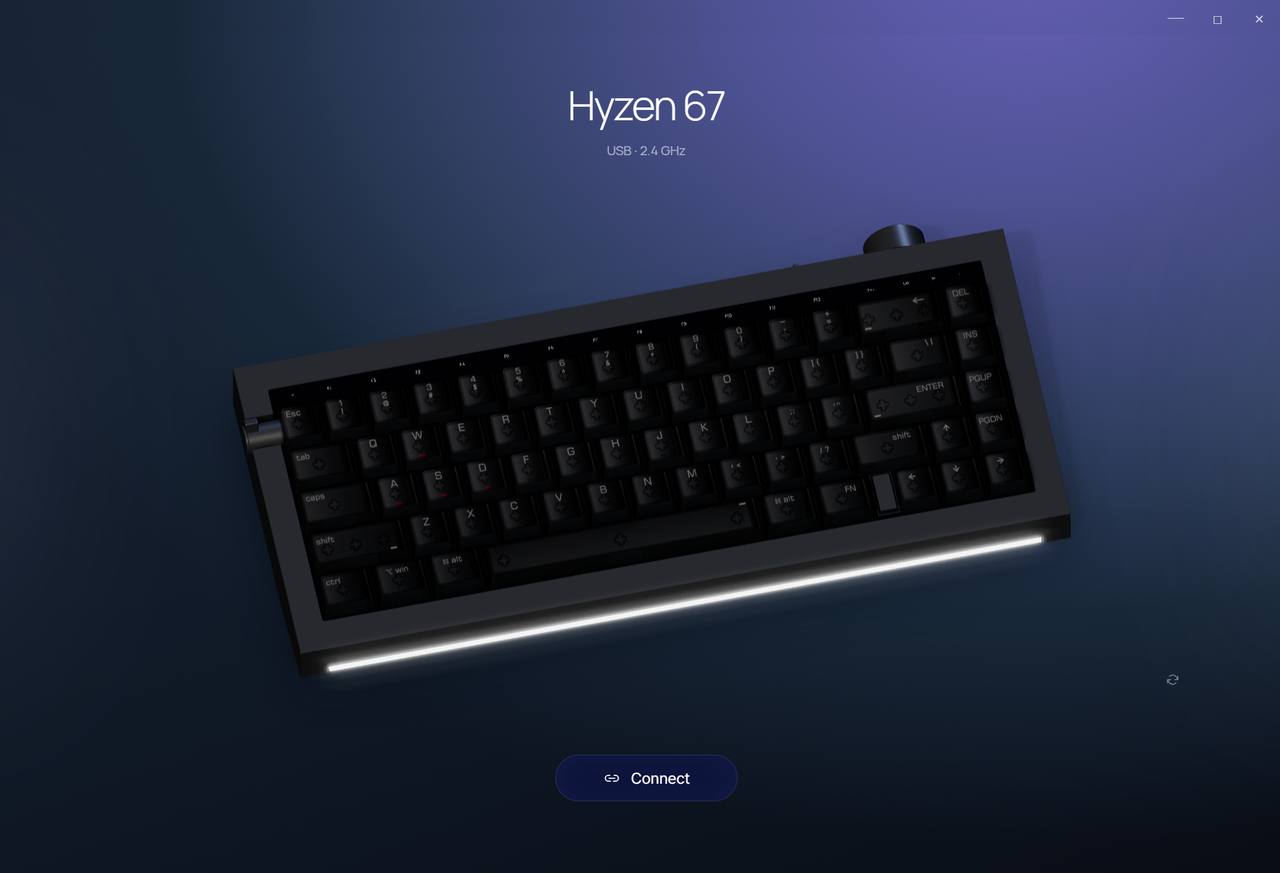
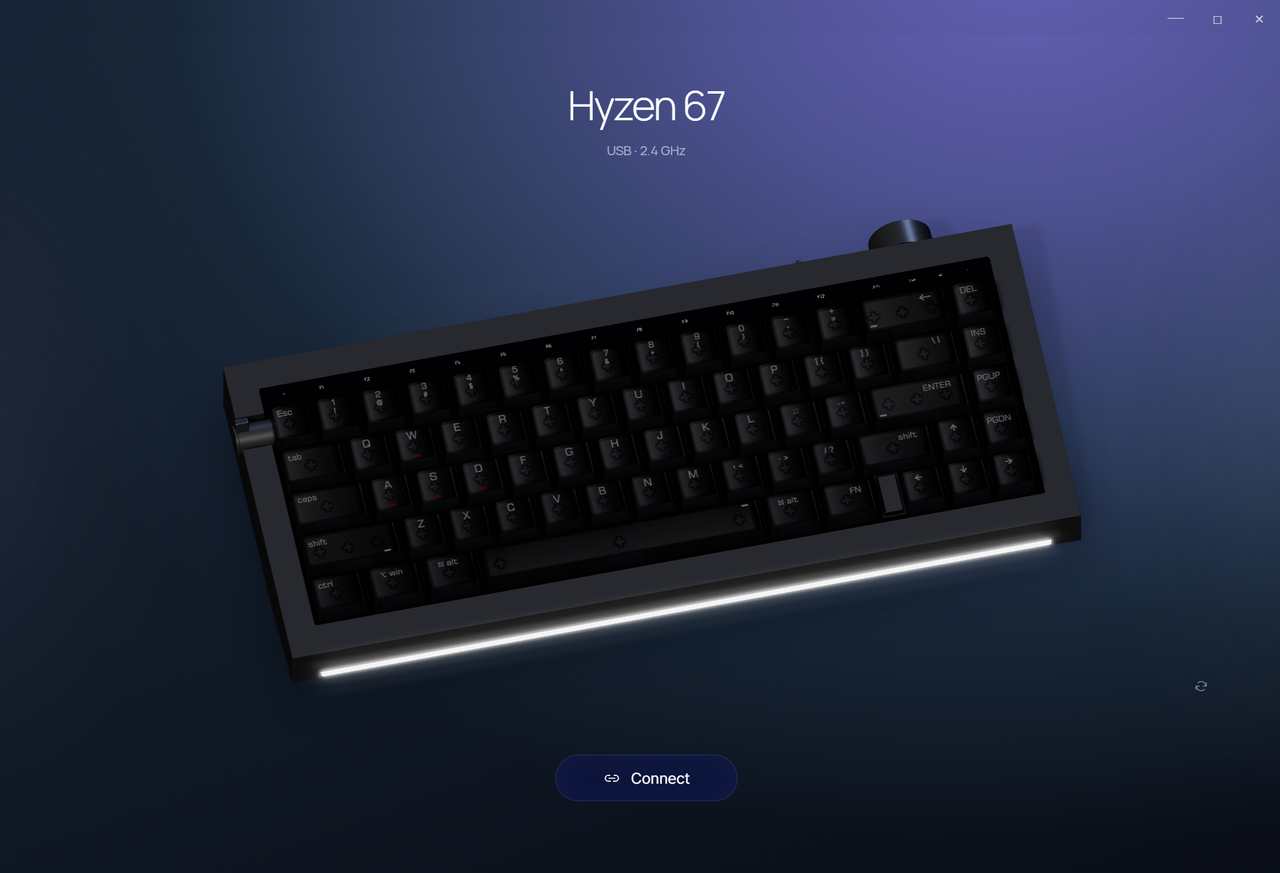
Widen magnetic return to 30 degrees and fix landing size at 160 percent

diff --git a/source/web/app.js b/source/web/app.js
@@ -67,11 +67,11 @@ async function switchLanguage(language){
  $('main').scrollTop=scroll;$('#content [data-language="'+language+'"]').focus({preventScroll:true});
 }
 function previewKeyboard(){
- return '<div class="keyboard product-visual model-host" data-model-view="landing"><img id="productPreview" src="hyzen-product.webp" alt="Lofree Hyzen 67 — 투명 키캡과 금속 하우징" width="3335" height="1400" draggable="false">'+modelReset()+'</div>';
+ return '<div class="keyboard product-visual model-host" data-model-view="landing"><img id="productPreview" src="hyzen-product.webp" alt="Lofree Hyzen 67 — 투명 키캡과 금속 하우징" width="3335" height="1400" draggable="false">'+modelReset(true)+'</div>';
 }
 function graphicScale(){return window.Hyzen3D?.scale||window.HUB_PREFERENCES?.keyboardScale||120;}
 function graphicScaleOptions(){return Array.from({length:9},(_,i)=>80+i*10).map(value=>option(value,value+'%',graphicScale())).join('');}
-function modelReset(){return '<select class="model-scale" data-model-scale aria-label="'+t('키보드 그래픽 크기')+'" title="'+t('키보드 그래픽 크기')+'">'+graphicScaleOptions()+'</select><button class="model-reset" data-model-reset aria-label="'+t('3D 보기 초기화')+'" title="'+t('드래그하여 회전 · 휠로 확대/축소 · 두 번 클릭하여 초기화')+'">'+icon('refresh')+'</button>';}
+function modelReset(fixedSize=false){return (fixedSize?'':'<select class="model-scale" data-model-scale aria-label="'+t('키보드 그래픽 크기')+'" title="'+t('키보드 그래픽 크기')+'">'+graphicScaleOptions()+'</select>')+'<button class="model-reset" data-model-reset aria-label="'+t('3D 보기 초기화')+'" title="'+t('드래그하여 회전 · 휠로 확대/축소 · 두 번 클릭하여 초기화')+'">'+icon('refresh')+'</button>';}
 async function setGraphicScale(value){
  const scale=Number(value);if(!Number.isInteger(scale)||scale<80||scale>160||scale%10)throw Error('보기 크기가 올바르지 않습니다.');
  const saved=await rpc('preferences',{keyboardScale:scale});
@@ -197,7 +197,7 @@ function settings(){
  const language=`<div class="setting-row"><div class="setting-label" id="languageLabel">언어</div><div class="language-toggle" role="group" aria-labelledby="languageLabel">${['ko','en'].map(code=>`<button data-language="${code}" aria-pressed="${L.language===code}">${code.toUpperCase()}</button>`).join('')}</div></div><div class="setting-row"><label for="keyboardScale">키보드 그래픽 크기</label><select id="keyboardScale">${graphicScaleOptions()}</select></div>`;
  return `<article class="card">${language}<div class="setting-row"><label for="axisMode">스위치 모드</label><select id="axisMode">${option(2,'MAG',f[56])}${option(1,'MEC',f[56])}</select></div>${fold('키 잠금 · 고속 응답',locks)}${actionRow('saveMode')}</article>${[['절전',sleep],['폴링레이트',rate],['프로필 · 연결',profile],[cap.firmware?'업데이트 · 초기화':'초기화',firmware]].map(([title,body])=>`<details class="card option-card"><summary>${title}</summary><div class="fold-body">${body}</div></details>`).join('')}`;
 }
-function help(){return `<article class="card help-card"><h2>Lofree HUB 1.3.2</h2><p>Lofree Hyzen 67용 Windows 제어 프로그램입니다. USB 또는 2.4GHz로 연결해 키 매핑, 입력 깊이, 조명 등을 설정합니다.</p></article>${[['연결과 프로필','USB 유선 또는 2.4GHz 수신기로 연결합니다. Bluetooth에서는 설정용 HID 인터페이스가 제공되지 않습니다. 상단에서 7개 프로필을 전환할 수 있고, 키 매핑과 조명 등은 현재 프로필에 저장합니다.'],['저장과 설정 확인','변경한 값은 자동으로 키보드에 적용합니다. 연속 조작은 짧게 묶어 전송하고, 같은 값을 다시 읽어 확인합니다. 하단에서 적용 상태를 확인하세요. 실패하면 ‘다시 적용’을 누르거나 새로고침으로 장치 값을 다시 읽을 수 있습니다.'],['키 매핑과 Fn 레이어','키를 선택한 뒤 새 동작을 지정합니다. Ctrl을 누르며 선택하면 여러 키를 편집할 수 있습니다. Fn과 고정 키는 변경할 수 없습니다. 네 가지 Fn 레이어는 프로필 전체에서 공유됩니다.'],['입력 깊이와 고급 키','MAG 모드에서는 장치의 보정 값으로 mm와 원시 값을 변환합니다. RT는 누름·해제 이동 거리를 따로 조절하고, MT·TGL·DKS·RS·SOCD·HT를 설정할 수 있습니다. 두 키 기능은 서로 다른 키를 연결해야 합니다.'],['키 테스트와 매크로','입력 기록은 이 프로그램 창이 활성 상태일 때만 메모리에 보관합니다. 창을 벗어나면 녹화를 중지합니다. Fn이나 Windows가 가로채는 단축키는 일반 입력 이벤트에 나타나지 않을 수 있습니다. 매크로는 녹화를 중지하면 자동 적용합니다. 키 매핑에서 M1~M28을 지정하세요.'],['보정 · 펌웨어 · 초기화','이 버전의 보정, 펌웨어 쓰기, 공장 초기화는 공식 드라이버로 연결합니다. 프로그램에서 공식 도구를 열면 HID 연결을 먼저 해제합니다. 보정은 유선 MAG 모드에서 진행하세요.'],['백업 범위','내보내기는 현재 프로필의 기본 레이어 매핑과 기능 설정을 포함합니다. Fn 레이어·고급 키·입력 깊이·매크로 데이터는 이 백업 형식에 포함되지 않습니다. 원본 JSON 파일을 별도로 보관하세요.']].map(([t,p])=>`<details class="card help-card"><summary>${t}</summary><p>${p}</p></details>`).join('')}<button data-action="official">Lofree 공식 Hyzen 드라이버 ↗</button>`;}
+function help(){return `<article class="card help-card"><h2>Lofree HUB 1.3.3</h2><p>Lofree Hyzen 67용 Windows 제어 프로그램입니다. USB 또는 2.4GHz로 연결해 키 매핑, 입력 깊이, 조명 등을 설정합니다.</p></article>${[['연결과 프로필','USB 유선 또는 2.4GHz 수신기로 연결합니다. Bluetooth에서는 설정용 HID 인터페이스가 제공되지 않습니다. 상단에서 7개 프로필을 전환할 수 있고, 키 매핑과 조명 등은 현재 프로필에 저장합니다.'],['저장과 설정 확인','변경한 값은 자동으로 키보드에 적용합니다. 연속 조작은 짧게 묶어 전송하고, 같은 값을 다시 읽어 확인합니다. 하단에서 적용 상태를 확인하세요. 실패하면 ‘다시 적용’을 누르거나 새로고침으로 장치 값을 다시 읽을 수 있습니다.'],['키 매핑과 Fn 레이어','키를 선택한 뒤 새 동작을 지정합니다. Ctrl을 누르며 선택하면 여러 키를 편집할 수 있습니다. Fn과 고정 키는 변경할 수 없습니다. 네 가지 Fn 레이어는 프로필 전체에서 공유됩니다.'],['입력 깊이와 고급 키','MAG 모드에서는 장치의 보정 값으로 mm와 원시 값을 변환합니다. RT는 누름·해제 이동 거리를 따로 조절하고, MT·TGL·DKS·RS·SOCD·HT를 설정할 수 있습니다. 두 키 기능은 서로 다른 키를 연결해야 합니다.'],['키 테스트와 매크로','입력 기록은 이 프로그램 창이 활성 상태일 때만 메모리에 보관합니다. 창을 벗어나면 녹화를 중지합니다. Fn이나 Windows가 가로채는 단축키는 일반 입력 이벤트에 나타나지 않을 수 있습니다. 매크로는 녹화를 중지하면 자동 적용합니다. 키 매핑에서 M1~M28을 지정하세요.'],['보정 · 펌웨어 · 초기화','이 버전의 보정, 펌웨어 쓰기, 공장 초기화는 공식 드라이버로 연결합니다. 프로그램에서 공식 도구를 열면 HID 연결을 먼저 해제합니다. 보정은 유선 MAG 모드에서 진행하세요.'],['백업 범위','내보내기는 현재 프로필의 기본 레이어 매핑과 기능 설정을 포함합니다. Fn 레이어·고급 키·입력 깊이·매크로 데이터는 이 백업 형식에 포함되지 않습니다. 원본 JSON 파일을 별도로 보관하세요.']].map(([t,p])=>`<details class="card help-card"><summary>${t}</summary><p>${p}</p></details>`).join('')}<button data-action="official">Lofree 공식 Hyzen 드라이버 ↗</button>`;}
 async function loadAdvanced(prefetched=undefined){if(state.page!=='advanced'||firstSelected()<0)return;const v=prefetched===undefined?await device.advancedConfig(firstSelected()):prefetched;if(v){state.advanced=v.kind;render();if(v.tap)$('#advancedTap').value=P.hex(v.tap);if(v.hold)$('#advancedHold').value=P.hex(v.hold);if(v.delay!==undefined)$('#advancedDelay').value=v.delay;if(v.partner!==undefined)$('#partnerKey').value=v.partner;if(v.priority!==undefined)$('#advancedPriority').value=v.priority;if(v.mm!==undefined){$('#advancedMm').value=v.mm;syncInstrument($('#advancedMm'),true);}if(v.rtEnabled!==undefined)$('#advancedRt').checked=v.rtEnabled;if(v.rows)for(let n=0;n<4;n++){$('#dksKey'+n).value=P.hex(v.rows[n].code);$('#dksPoint'+n).value=v.points[n].toFixed(2);}}}
 async function navigate(page){
  if(!device.connected||!availablePage(page))return;
@@ -350,6 +350,7 @@ window.runVerification=async()=>{
  checks.push({name:'official-product-image',ok:product?.complete&&product.naturalWidth===3335&&physical.length===67});
  await modelReady();const initialModel=Hyzen3D.inspect();
  checks.push({name:'blender-model-loads-before-manual-connection',ok:initialModel.state==='ready'&&initialModel.keys===67&&initialModel.loads===1&&landingOnly()&&!device.connected&&pending.size===0,model:initialModel});
+ await (await import('./model-verification.js')).verifyLandingScale({checks,modelReady});
  await screenshot('landing');
  const realRpc=device.rpc;let attempts=0;
  device.rpc=async(action,args)=>{if(action==='connect'){attempts++;throw Error('검증용 연결 실패');}return realRpc(action,args);};
@@ -401,8 +402,8 @@ window.runVerification=async()=>{
     checks.push({name:'3d-ray-selects-real-key-without-device-write',ok:document.elementFromPoint(p.x,p.y)===canvas&&state.selected.has(keyIndex)&&selected.getAttribute('aria-pressed')==='true'&&Hyzen3D.keyState(key.dataset.modelKey).light>.4&&serial===serialBefore});
     const r=canvas.getBoundingClientRect(),before=Hyzen3D.inspect();
     canvas.dispatchEvent(new PointerEvent('pointerdown',{pointerId:2,button:0,clientX:r.left+100,clientY:r.top+100,bubbles:true}));
-    canvas.dispatchEvent(new PointerEvent('pointermove',{pointerId:2,clientX:r.left+180,clientY:r.top+75,bubbles:true}));
-    canvas.dispatchEvent(new PointerEvent('pointerup',{pointerId:2,clientX:r.left+180,clientY:r.top+75,bubbles:true}));await modelReady();
+    canvas.dispatchEvent(new PointerEvent('pointermove',{pointerId:2,clientX:r.left+240,clientY:r.top+75,bubbles:true}));
+    canvas.dispatchEvent(new PointerEvent('pointerup',{pointerId:2,clientX:r.left+240,clientY:r.top+75,bubbles:true}));await modelReady();
     const rotated=Hyzen3D.inspect();await screenshot('model-orbit');$('[data-model-reset]').click();await modelReady();const restored=Hyzen3D.inspect();
     checks.push({name:'3d-drag-follows-hand-and-reset-restores-view-without-selecting',ok:rotated.pose.yaw<before.pose.yaw-.3&&Math.abs(restored.pose.yaw)<.001&&state.selected.size===1&&state.selected.has(keyIndex)});
     await (await import('./model-verification.js')).verifyNavigation({checks,modelReady,wait});

diff --git a/source/web/model-verification.js b/source/web/model-verification.js
@@ -1,4 +1,16 @@
 // Native read-only checks. Fixtures and control jobs never reach physical HID.
+export async function verifyLandingScale({checks,modelReady}){
+ const host=document.querySelector('#connectVisual .model-host'),saved=Hyzen3D.scale;
+ const measure=()=>{const r=host.getBoundingClientRect();return{width:r.width,height:r.height,scale:Number(getComputedStyle(host).getPropertyValue('--keyboard-graphic-scale'))};};
+ try{
+  Hyzen3D.setScale(80);await modelReady();const smaller=measure();
+  Hyzen3D.setScale(160);await modelReady();const larger=measure();
+  checks.push({name:'landing-size-is-fixed-at-160-independent-of-settings-size',ok:smaller.scale===1.6&&larger.scale===1.6&&Math.abs(larger.width-smaller.width)<.5&&Math.abs(larger.height-smaller.height)<.5&&!host.querySelector('[data-model-scale]'),sizes:{smaller,larger}});
+  const model=host.getBoundingClientRect(),heading=document.querySelector('.connect-heading').getBoundingClientRect(),controls=document.querySelector('.connect-controls').getBoundingClientRect();
+  checks.push({name:'landing-model-fits-between-heading-and-connect-controls',ok:model.width>0&&model.height>0&&model.top>=heading.bottom&&model.bottom<=controls.top+.5,bounds:{modelTop:model.top,modelBottom:model.bottom,headingBottom:heading.bottom,controlsTop:controls.top}});
+ }finally{Hyzen3D.setScale(saved);await modelReady();}
+}
+
 export async function verifyNavigation({checks,modelReady,wait}){
  const canvas=document.querySelector('#content .keyboard-canvas'),main=document.querySelector('main');
  const originalScroll=main.scrollTop;
@@ -7,10 +19,10 @@ export async function verifyNavigation({checks,modelReady,wait}){
  checks.push({name:'3d-wheel-zooms-smoothly-and-consumes-page-scroll',ok:event.defaultPrevented&&pending.goal.zoom>pending.pose.zoom&&enlarged.pose.zoom>1.1&&main.scrollTop===originalScroll});
  const r=canvas.getBoundingClientRect(),x=r.left+r.width/2,y=r.top+r.height/2;
  canvas.dispatchEvent(new PointerEvent('pointerdown',{pointerId:17,button:0,clientX:x,clientY:y,bubbles:true}));
- canvas.dispatchEvent(new PointerEvent('pointermove',{pointerId:17,clientX:x-20,clientY:y+8,bubbles:true}));await wait(120);
- const displaced=Hyzen3D.inspect();canvas.dispatchEvent(new PointerEvent('pointerup',{pointerId:17,clientX:x-20,clientY:y+8,bubbles:true}));
+ canvas.dispatchEvent(new PointerEvent('pointermove',{pointerId:17,clientX:x-80,clientY:y+8,bubbles:true}));await wait(120);
+ const displaced=Hyzen3D.inspect();canvas.dispatchEvent(new PointerEvent('pointerup',{pointerId:17,clientX:x-80,clientY:y+8,bubbles:true}));
  const snapping=Hyzen3D.inspect();await wait(60);const during=Hyzen3D.inspect();await modelReady();const returned=Hyzen3D.inspect();
- checks.push({name:'3d-small-drag-follows-hand-and-magnetically-returns-without-losing-zoom',ok:displaced.goal.yaw>0&&displaced.pose.yaw>0&&snapping.magnetic&&during.pose.yaw>0&&during.pose.yaw<displaced.pose.yaw&&Math.abs(returned.pose.yaw)<.0001&&Math.abs(returned.pose.elevation-1.05)<.0001&&Math.abs(returned.pose.zoom-enlarged.pose.zoom)<.001});
+ checks.push({name:'3d-drag-between-ten-and-thirty-degrees-returns-without-losing-zoom',ok:displaced.goal.yaw>10*Math.PI/180&&displaced.goal.yaw<30*Math.PI/180&&displaced.pose.yaw>0&&snapping.magnetic&&during.pose.yaw>0&&during.pose.yaw<displaced.pose.yaw&&Math.abs(returned.pose.yaw)<.0001&&Math.abs(returned.pose.elevation-1.05)<.0001&&Math.abs(returned.pose.zoom-enlarged.pose.zoom)<.001});
  canvas.dispatchEvent(new WheelEvent('wheel',{deltaY:100,bubbles:true,cancelable:true}));await modelReady();
  checks.push({name:'3d-wheel-zooms-out-and-reset-restores-fit',ok:Math.abs(Hyzen3D.inspect().pose.zoom-1)<.001});
  Hyzen3D.reset();await modelReady();

diff --git a/source/web/keyboard3d.css b/source/web/keyboard3d.css
@@ -17,8 +17,8 @@
 .model-reset:hover{background:#d1d9ff0b;color:#eff2ff;border-color:transparent}
 .model-host.model-orbiting,.model-orbiting>.keyboard-canvas{cursor:grabbing}
 .connect-stage .keyboard.model-host{--model-base-width:930px;transform:none!important;filter:drop-shadow(0 25px 25px #02071344);aspect-ratio:2.1;max-height:100%}
-.connect-stage{align-self:stretch;min-height:0}
-#connectVisual{width:min(calc(990px*var(--keyboard-graphic-scale)),89vw);height:100%;max-width:100%;display:grid;align-items:center}
+.connect-stage{align-self:stretch;min-height:0;grid-template-rows:minmax(0,1fr)}
+#connectVisual{--keyboard-graphic-scale:1.6;width:min(calc(990px*var(--keyboard-graphic-scale)),89vw);height:100%;min-height:0;max-width:100%;display:grid;grid-template-rows:minmax(0,1fr);align-items:center}
 .connect-stage .model-host img{position:absolute;inset:0;width:100%;height:100%;object-fit:contain}
 body[data-page=depth] .keyboard.model-host{--model-base-width:660px}
 body[data-page=light] .keyboard.model-host{--model-base-width:720px;aspect-ratio:2.65}

diff --git a/source/web/keyboard-motion.js b/source/web/keyboard-motion.js
@@ -1,7 +1,7 @@
 (function(root){
 'use strict';
 const clamp=(value,min,max)=>Math.max(min,Math.min(max,value));
-const magnetAngle=10*Math.PI/180;
+const magnetAngle=30*Math.PI/180;
 function home(view){return view==='landing'?{yaw:-.22,elevation:.95,zoom:1}:{yaw:0,elevation:1.05,zoom:1};}
 function drag(start,dx,dy){return{yaw:clamp(start.yaw-dx*.005,-.8,.8),elevation:clamp(start.elevation+dy*.005,.62,1.45)};}
 function nearHome(pose,view){const base=home(view);return Math.abs(pose.yaw-base.yaw)<=magnetAngle+1e-9&&Math.abs(pose.elevation-base.elevation)<=magnetAngle+1e-9;}

diff --git a/docs/tools/build-readme-images.py b/docs/tools/build-readme-images.py
@@ -80,7 +80,7 @@ with Image.open(output / "hero.gif") as gif:
         gif.load()
         total += gif.info["duration"]
     report = {"frames": gif.n_frames, "durationMs": total, "size": gif.size, "bytes": (output / "hero.gif").stat().st_size,
-              "source": "Lofree HUB 1.3.2 read-only native app captures", "method": "Position animation of unchanged real screenshots"}
+              "source": "Lofree HUB 1.3.3 read-only native app captures", "method": "Position animation of unchanged real screenshots"}
 print(json.dumps(report))
 for language in ["ko", "en"]:
     with Image.open(args.capture / f"{language}-general.png") as image:

diff --git a/source/App.cs b/source/App.cs
@@ -18,8 +18,8 @@ using Microsoft.Web.WebView2.Wpf;
 [assembly:AssemblyTitle("Lofree HUB")]
 [assembly:AssemblyProduct("Lofree HUB")]
 [assembly:AssemblyDescription("Lofree HYZEN 67 keyboard settings")]
-[assembly:AssemblyVersion("1.3.2.0")]
-[assembly:AssemblyFileVersion("1.3.2.0")]
+[assembly:AssemblyVersion("1.3.3.0")]
+[assembly:AssemblyFileVersion("1.3.3.0")]
 namespace HyzenControl {
  static class Program {
   internal const string AppUserModelId="Lofree.HUB";

diff --git a/README.md b/README.md
@@ -6,11 +6,11 @@
 
 <br><br>
 
-<a href="https://github.com/iismn/PR-LofreeHyzenHub/releases/download/v1.3.2/LofreeHUB.exe"><img src="docs/images/download-windows.svg" alt="Download Lofree HUB 1.3.2 for Windows" width="260" height="56"></a>
+<a href="https://github.com/iismn/PR-LofreeHyzenHub/releases/download/v1.3.3/LofreeHUB.exe"><img src="docs/images/download-windows.svg" alt="Download Lofree HUB 1.3.3 for Windows" width="260" height="56"></a>
 
-**1.3.2 · Windows 10 / 11 · x64**
+**1.3.3 · Windows 10 / 11 · x64**
 
-[Release notes](https://github.com/iismn/PR-LofreeHyzenHub/releases/tag/v1.3.2) · [KO guide](docs/user-guide.md) · [EN guide](docs/user-guide.en.md) · [Issues](https://github.com/iismn/PR-LofreeHyzenHub/issues)
+[Release notes](https://github.com/iismn/PR-LofreeHyzenHub/releases/tag/v1.3.3) · [KO guide](docs/user-guide.md) · [EN guide](docs/user-guide.en.md) · [Issues](https://github.com/iismn/PR-LofreeHyzenHub/issues)
 
 [3D Keyboard](#3d-keyboard) · [Actuation](#actuation) · [Key Mapping](#key-mapping) · [Lighting](#lighting)
 
@@ -20,11 +20,11 @@
 
 ## 3D Keyboard
 
-The connection screen and keyboard views use the bundled Blender model. Drag to rotate in the direction of your hand and scroll over the model to zoom. Release within 10° of the default angle on both axes to return smoothly to that view; larger rotations stay where you leave them. This return keeps your zoom. Double-click or use the reset icon to restore both angle and zoom. Click a cap to select its actual device key. Key Test animates each cap as it is pressed and released.
+The connection screen and keyboard views use the bundled Blender model. Drag to rotate in the direction of your hand and scroll over the model to zoom. Release within 30° of the default angle on both axes to return smoothly to that view; larger rotations stay where you leave them. This return keeps your zoom. Double-click or use the reset icon to restore both angle and zoom. Click a cap to select its actual device key. Key Test animates each cap as it is pressed and released.
 
 Studio lighting and photograph-derived roof textures give the model its smoked finish. Backlight and front-strip color, brightness and effect previews follow the lighting controls; a soft glow stays around the front LED strip.
 
-The darker studio lighting keeps the metal and smoked caps subdued. Light diffuses from inside each cap, and HDR bloom follows the visible keys and front strip. The keyboard graphic starts at **120%**. Hover the graphic to choose **80–160%**, or use **General → Keyboard graphic size**; the choice is kept after restarting.
+The darker studio lighting keeps the metal and smoked caps subdued. Light diffuses from inside each cap, and HDR bloom follows the visible keys and front strip. The connection screen uses a fixed **160%** graphic size, fitted to the available space. Settings views default to **120%**: hover the graphic to choose **80–160%**, or use **General → Keyboard graphic size**. That choice is kept after restarting and does not change the connection screen.
 
 ![3D key and front-strip lighting preview](docs/images/lighting-preview.png)
 
@@ -87,13 +87,13 @@ Choose **KO** or **EN** in **General → Language**. Menus, key lists, help, sta
 
 Windows 10 or Windows 11, x64, .NET Framework 4.8, and Microsoft Edge WebView2 Runtime.
 
-1. [Download LofreeHUB.exe](https://github.com/iismn/PR-LofreeHyzenHub/releases/download/v1.3.2/LofreeHUB.exe) to a writable folder and run it.
+1. [Download LofreeHUB.exe](https://github.com/iismn/PR-LofreeHyzenHub/releases/download/v1.3.3/LofreeHUB.exe) to a writable folder and run it.
 2. Connect the keyboard by USB or its 2.4 GHz receiver, then click **연결**.
 3. Select a key or setting. Changes apply automatically; a separate save button is not required.
 
 If the app reports that WebView2 is missing, [install the WebView2 Runtime](https://developer.microsoft.com/microsoft-edge/webview2/).
 
-For a stable Start menu shortcut, download the [Windows ZIP](https://github.com/iismn/PR-LofreeHyzenHub/releases/download/v1.3.2/LofreeHUB-1.3.2-Windows-x64.zip), extract it, and run `Install.ps1` with PowerShell. It installs to `%LOCALAPPDATA%\Programs\LofreeHUB` and registers **Lofree HUB** in Start. Right-click the app in Start to pin it.
+For a stable Start menu shortcut, download the [Windows ZIP](https://github.com/iismn/PR-LofreeHyzenHub/releases/download/v1.3.3/LofreeHUB-1.3.3-Windows-x64.zip), extract it, and run `Install.ps1` with PowerShell. It installs to `%LOCALAPPDATA%\Programs\LofreeHUB` and registers **Lofree HUB** in Start. Right-click the app in Start to pin it.
 
 Settings change on the keyboard. WebView2 data and the local language preference stay in `%LOCALAPPDATA%\HyzenControl`, preserving the earlier app's local data. Close the app before replacing its EXE. The initial language is KO; select EN in **일반 → 언어** to use English.
 
@@ -117,6 +117,6 @@ Settings change on the keyboard. WebView2 data and the local language preference
 
 ---
 
-[Download 1.3.2](https://github.com/iismn/PR-LofreeHyzenHub/releases/download/v1.3.2/LofreeHUB.exe) · [KO guide](docs/user-guide.md) · [EN guide](docs/user-guide.en.md) · [Build guide (Korean)](docs/technical-guide.md) · [Report an issue](https://github.com/iismn/PR-LofreeHyzenHub/issues)
+[Download 1.3.3](https://github.com/iismn/PR-LofreeHyzenHub/releases/download/v1.3.3/LofreeHUB.exe) · [KO guide](docs/user-guide.md) · [EN guide](docs/user-guide.en.md) · [Build guide (Korean)](docs/technical-guide.md) · [Report an issue](https://github.com/iismn/PR-LofreeHyzenHub/issues)
 
 [Asset sources](REFERENCE.md) · [Third-party notices](licenses) · [3D model](models/README.md) · [Preview source](docs/tools/README.md)

diff --git a/docs/user-guide.en.md b/docs/user-guide.en.md
@@ -10,9 +10,9 @@ Connect the keyboard by USB or its 2.4 GHz receiver, then click **Connect**. On 
 
 ## 3D keyboard
 
-The connection screen and keyboard views show the bundled Blender model. Drag to rotate in the direction of your hand. Scroll up over the model to zoom in and down to zoom out. Release within about ±10° of the default angle on both axes to return smoothly to that angle while keeping your zoom. Larger rotations keep their angle. Double-click or use the lower-right reset icon to restore both angle and wheel zoom. Click a cap to select its actual key. Key Test animates the pressed and released caps.
+The connection screen and keyboard views show the bundled Blender model. Drag to rotate in the direction of your hand. Scroll up over the model to zoom in and down to zoom out. Release within about ±30° of the default angle on both axes to return smoothly to that angle while keeping your zoom. Larger rotations keep their angle. Double-click or use the lower-right reset icon to restore both angle and wheel zoom. Click a cap to select its actual key. Key Test animates the pressed and released caps.
 
-The graphic starts at **120%**. Hover it and choose **80–160%** from the lower-right size menu, or use **General → Keyboard graphic size**. It fits the available window space and keeps your choice after restarting. This is a local viewing preference and does not change keyboard configuration. Resetting the view also keeps this size preference; wheel zoom resets when changing views.
+The connection screen uses a fixed **160%** graphic size, fitted to the available window space. Settings views default to **120%**. Hover their graphic and choose **80–160%** from the lower-right size menu, or use **General → Keyboard graphic size**. Your choice is kept after restarting and does not change the connection screen. This is a local viewing preference and does not change keyboard configuration. Resetting the view also keeps this size preference; wheel zoom resets when changing views.
 
 Static lighting renders only when needed. Animated lighting runs at up to 30 fps and pauses when hidden. If WebGL is unavailable, the app falls back to the official product photograph and preserves key selection. The model, renderer and studio lighting are bundled and do not require internet access.
 

diff --git a/REFERENCE.md b/REFERENCE.md
@@ -1,5 +1,7 @@
 # 구현 참고 자료
 
+1.3.3은 기본 각도 복귀 범위를 가로·세로 각각 ±30°로 넓힙니다. 시작 화면의 그래픽 크기 변수는 160%로 고정하고 크기 선택 메뉴를 표시하지 않습니다. 일반 탭의 그래픽 크기는 설정 화면에만 적용하며 기존 선택을 유지합니다. 시작 화면도 창의 가용 공간 안에 맞춰 표시합니다.
+
 1.3.2는 직교 카메라의 줌을 휠 입력에 비례해 변경하고, 드래그 방향과 모델의 회전 방향을 맞춥니다. 드래그를 놓을 때 기본 뷰의 가로·세로 각도에서 각각 ±10° 이내면 감쇠 스프링으로 복귀합니다. 확대율은 복귀 때 유지하며, 보기 초기화는 각도와 줌을 함께 복원합니다. 프레임 간격이 길어지면 스프링을 작은 단계로 나눠 안정성을 유지합니다. 이 동작은 장치 통신을 사용하지 않습니다.
 
 1.3.1은 키 내부 좌표의 광원 거리와 높이에 따라 발광을 감쇠시킵니다. 렌더링한 HDR 장면에서 밝은 부분을 추출하고 두 크기로 가우시안 블러를 적용한 뒤, 투명도·톤 매핑을 보존해 합성합니다. 주변 스튜디오 조명과 노출을 낮췄습니다. 그래픽 크기는 기본 120%, 80~160%이며 `preferences.json`에 언어와 함께 원자적으로 저장합니다. 장치 설정을 보내지 않으며 기존 언어 전용 파일도 읽습니다.

diff --git a/docs/validation.md b/docs/validation.md
@@ -1,5 +1,13 @@
 # Validation
 
+## 1.3.3 return range and connection-screen size
+
+- **51 Node tests** and **96/96 native UI checks** at both 1320×900 and 1040×720 passed. Reports: [default](validation/v1.3.3-windows.json) / [minimum](validation/v1.3.3-windows-min.json).
+- Motion checks cover the new 30° boundary on both views. Native interaction returned from about 23° while preserving zoom; a rotation beyond 30° stayed until reset.
+- Changing the saved settings-view size between 80% and 160% left the connection-screen scale at 160% with identical dimensions and no size selector. Its model region fit between the title and connection controls at both window sizes.
+- An initial enlarged layout extended into the connection indicator area. Grid sizing was corrected before the passing final runs. Intermediate hardware reads also timed out; the final runs were performed after the user woke the keyboard.
+- Native verification recorded zero physical setting writes. Device communication, Blender geometry and preference storage are unchanged from 1.3.2.
+
 ## 1.3.2 3D navigation
 
 - **51 Node tests**, **14 native preference checks**, and **94/94 native UI checks** at both 1320×900 and 1040×720 passed. Reports: [default](validation/v1.3.2-windows.json) / [minimum](validation/v1.3.2-windows-min.json).

diff --git a/models/README.md b/models/README.md
@@ -28,3 +28,5 @@ Each key contains its own photograph roof region, aligned to the physical cap. B
 In 1.3.1, the viewer uses darker studio illumination and a local-space diffusion field inside each key. Visible HDR radiance is rendered to a half-float target, extracted and blurred at two scales, then composited with the original transparency and tone mapping. This replaces the earlier screen-space strip overlay. Graphic size is a local preference, defaulting to 120%; it does not modify the Blender geometry.
 
 In 1.3.2, wheel input adjusts the orthographic camera zoom, and horizontal orbit follows the hand. Releasing a drag within 10° of the view's default yaw and elevation starts a damped spring return without changing zoom. Larger rotations stay in place. Reset restores angle and zoom while retaining the graphic-size preference. These controls do not modify the model or send device settings.
+
+In 1.3.3, the return threshold increases to 30° on each axis. The connection screen uses a fixed 160% graphic size within the available window space. The saved 80–160% preference applies to settings views only; wheel zoom and reset remain available on both screens.
